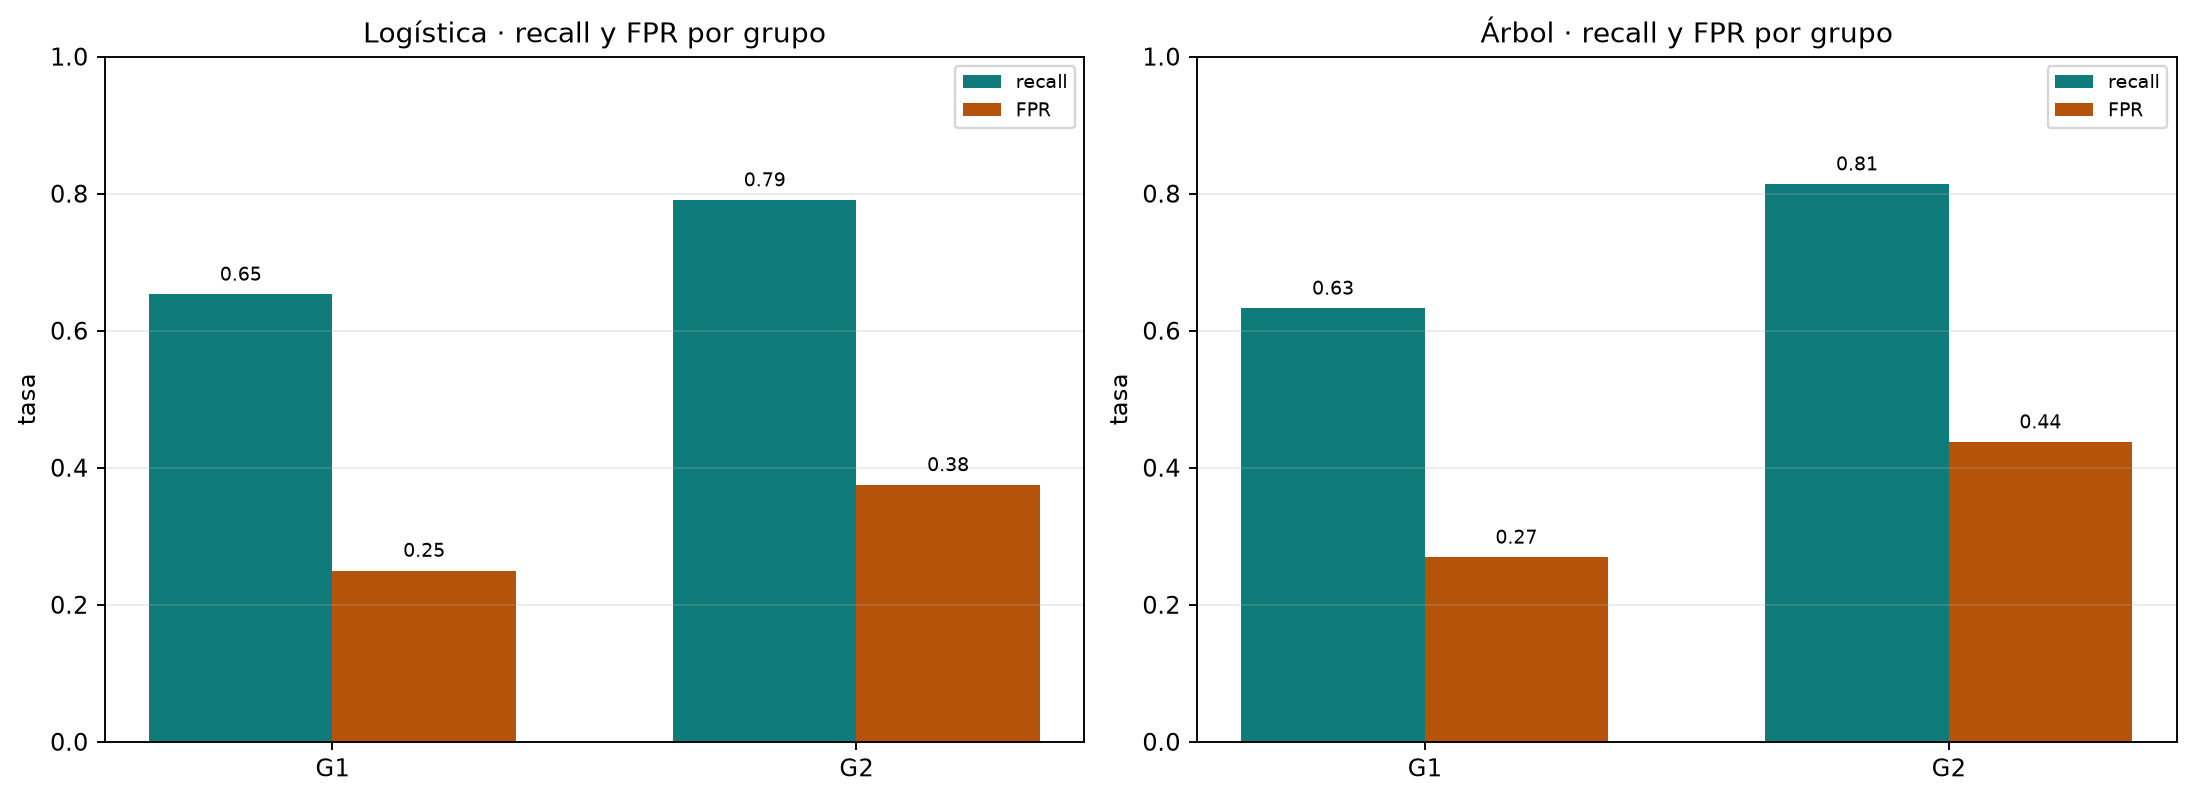
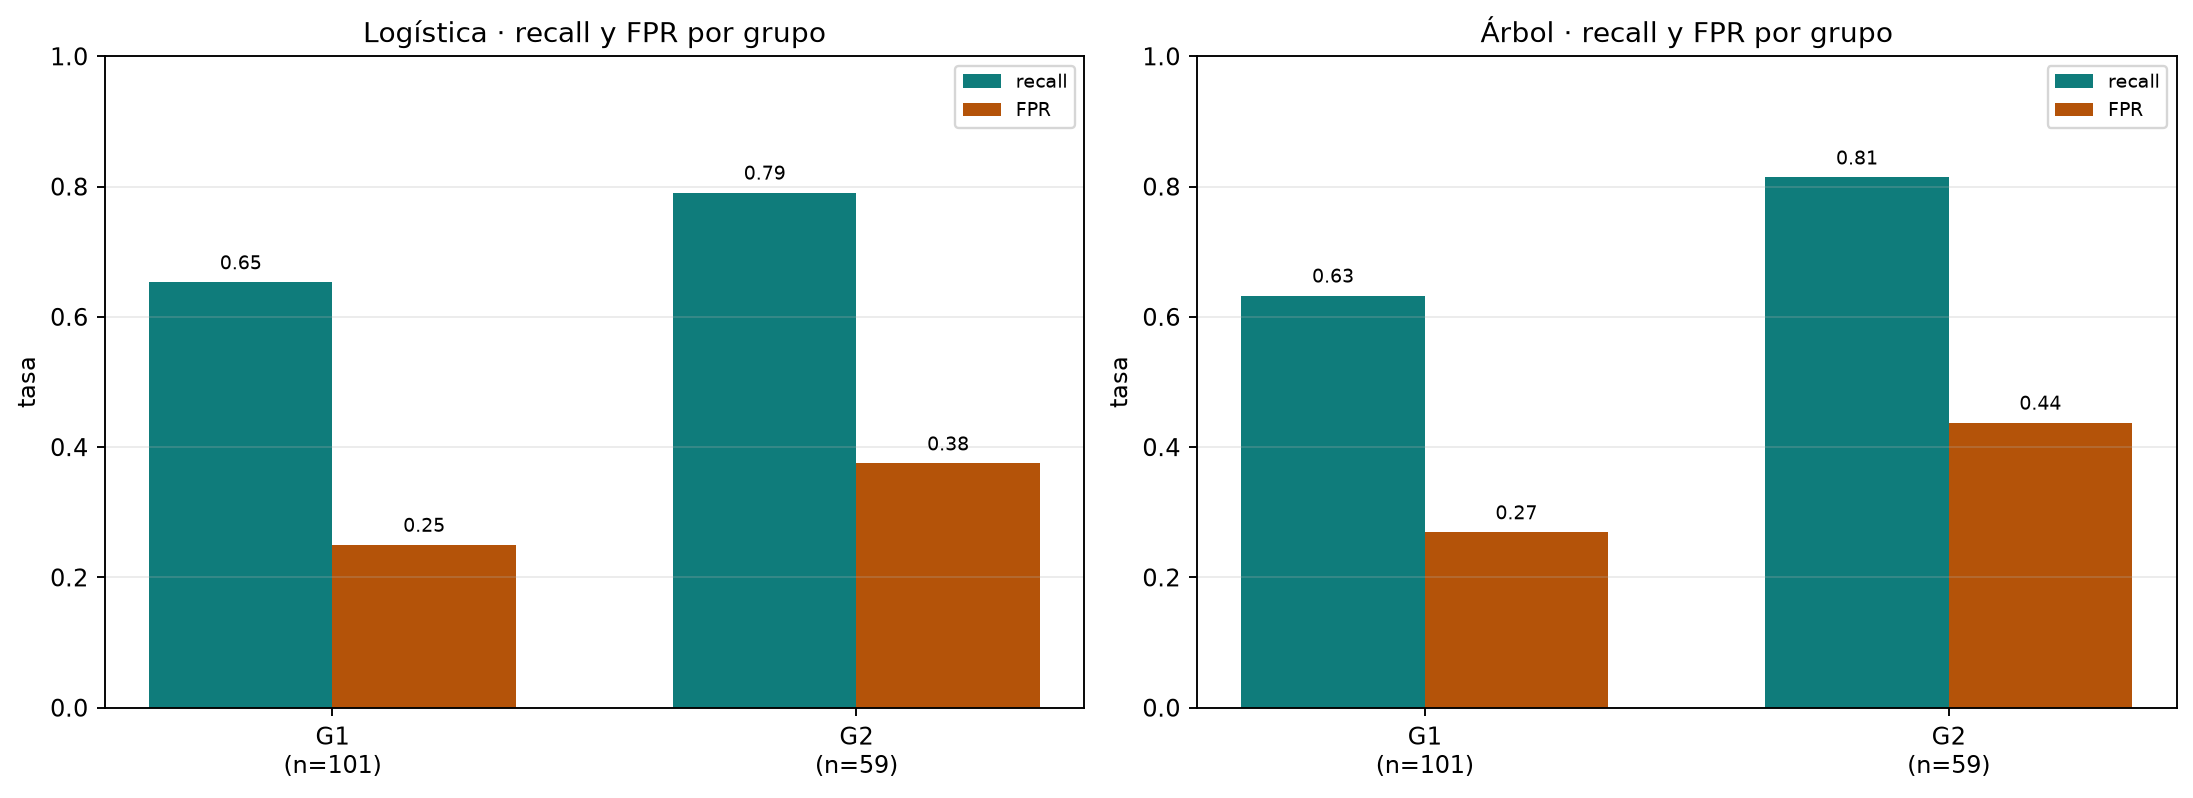
feat(lab13): version the deployment decision artifact and the gates figure
scripts/lab13_governance.py genera reports/lab13/deployment_decision.json (estado
REVIEW con las tres puertas del LAB12 fallidas) y make_figures.py construye la
figura de puertas a partir de ese artefacto. Los CSV interseccionales llevan la
columna soporte_insuficiente calculada por el script y se anade la figura de
tasas base de positivos.

diff --git a/scripts/make_figures.py b/scripts/make_figures.py
@@ -12,7 +12,8 @@ from pathlib import Path
 import matplotlib.pyplot as plt
 import numpy as np
 import pandas as pd
-import yaml
+
+from inf8239_u04.data import load_data, temporal_split
 
 ROOT = Path(__file__).resolve().parents[1]
 REPORTS = ROOT / "reports"
@@ -44,7 +45,7 @@ def figura_metricas_grupo() -> None:
         for i, (r, f) in enumerate(zip(tabla["recall"], tabla["fpr"])):
             eje.text(i - ancho / 2, r + 0.02, f"{r:.2f}", ha="center", fontsize=8)
             eje.text(i + ancho / 2, f + 0.02, f"{f:.2f}", ha="center", fontsize=8)
-        eje.set_xticks(x, tabla.index)
+        eje.set_xticks(x, [f"{nombre_grupo}\n(n={int(n)})" for nombre_grupo, n in zip(tabla.index, tabla["count"])])
         eje.set_ylim(0, 1)
         eje.set_ylabel("tasa")
         eje.set_title(f"{nombre} · recall y FPR por grupo")
@@ -57,9 +58,9 @@ def figura_metricas_grupo() -> None:
 
 def figura_recall_interseccional() -> None:
     inter = pd.read_csv(REPORTS / "lab12/logistic/fairness_intersectional.csv", index_col=0)
-    soporte = np.where(inter["count"] < 15, "INSUFICIENTE", "ok")
+    insuficiente = inter["soporte_insuficiente"].astype(str).str.lower().eq("true")
     figura, eje = plt.subplots(figsize=(10, 5))
-    colores = ["#b91c1c" if s == "INSUFICIENTE" else "#0f7c7b" for s in soporte]
+    colores = ["#b91c1c" if s else "#0f7c7b" for s in insuficiente]
     eje.bar(inter.index, inter["recall"], color=colores)
     for i, (c, r) in enumerate(zip(inter["count"], inter["recall"])):
         eje.text(i, r + 0.02, f"n={int(c)}", ha="center", fontsize=8)
@@ -90,21 +91,28 @@ def figura_utilidad_brecha() -> None:
     plt.close(figura)
 
 
-def figura_inventario() -> None:
-    cfg = yaml.safe_load((ROOT / "configs/governance.yml").read_text(encoding="utf-8"))
-    inventario = pd.DataFrame(cfg["inventory"])
-    figura, eje = plt.subplots(figsize=(9, 4.4))
-    colores = ["#0f7c7b" if u else "#94a3b8" for u in inventario["used_as_feature"]]
-    eje.barh(inventario["name"], inventario["retention_days"], color=colores)
-    for y, (d, u) in enumerate(zip(inventario["retention_days"], inventario["used_as_feature"])):
-        eje.text(d + 8, y, f"{d} d" + (" · variable" if u else " · fuera del modelo"), va="center", fontsize=8)
-    eje.set_xlabel("Retención (días)")
-    eje.set_title("Inventario: retención y uso como variable · azul = entra al modelo")
-    eje.set_xlim(0, 1250)
-    eje.invert_yaxis()
-    eje.grid(axis="x", alpha=0.3)
+def figura_tasas_base() -> None:
+    datos = load_data()
+    _, prueba = temporal_split(datos)
+    grupos = ["G1", "G2"]
+    completos = [100.0 * datos.loc[datos.protected_group == g, "target"].mean() for g in grupos]
+    prueba_pct = [100.0 * prueba.loc[prueba.protected_group == g, "target"].mean() for g in grupos]
+    x = np.arange(len(grupos))
+    ancho = 0.35
+    figura, eje = plt.subplots(figsize=(8.5, 4.4))
+    eje.bar(x - ancho / 2, completos, ancho, label=f"datos completos (n={len(datos)})", color="#94a3b8")
+    eje.bar(x + ancho / 2, prueba_pct, ancho, label=f"prueba (corte temporal, n={len(prueba)})", color="#0f7c7b")
+    for i, (completo, parcial) in enumerate(zip(completos, prueba_pct)):
+        eje.text(i - ancho / 2, completo + 1, f"{completo:.1f} %", ha="center", fontsize=9)
+        eje.text(i + ancho / 2, parcial + 1, f"{parcial:.1f} %", ha="center", fontsize=9)
+    eje.set_xticks(x, grupos)
+    eje.set_ylabel("tasa base de positivos (%)")
+    eje.set_title("Tasa base de positivos por grupo (prevalencia del target)")
+    eje.set_ylim(0, 100)
+    eje.legend(fontsize=9)
+    eje.grid(axis="y", alpha=0.25)
     figura.tight_layout()
-    figura.savefig(REPORTS / "lab13/inventario_retencion.png", dpi=170, bbox_inches="tight")
+    figura.savefig(REPORTS / "lab12/tasas_base_positivos.png", dpi=170, bbox_inches="tight")
     plt.close(figura)
 
 
@@ -135,7 +143,7 @@ def figura_puertas() -> None:
                  color="#15803d" if v else "#b91c1c")
     eje.set_xlim(0, 1.35)
     eje.set_xticks([])
-    eje.set_title("Puertas de calidad del despliegue · verde = correcta, rojo = falla")
+    eje.set_title(f"Puertas de calidad del despliegue · estado {decision['decision']['status']}")
     eje.invert_yaxis()
     figura.tight_layout()
     figura.savefig(REPORTS / "lab13/puertas_calidad.png", dpi=170, bbox_inches="tight")
@@ -148,7 +156,7 @@ def main() -> None:
         ("lab12/metricas_por_grupo.png", figura_metricas_grupo),
         ("lab12/recall_interseccional.png", figura_recall_interseccional),
         ("lab12/utilidad_vs_brecha.png", figura_utilidad_brecha),
-        ("lab13/inventario_retencion.png", figura_inventario),
+        ("lab12/tasas_base_positivos.png", figura_tasas_base),
         ("lab13/raci_responsables.png", figura_raci),
         ("lab13/puertas_calidad.png", figura_puertas),
     ]
@@ -156,7 +164,7 @@ def main() -> None:
         try:
             funcion()
             print("OK   ", nombre)
-        except Exception as error:  # la figura depende de artefactos que pueden no existir
+        except (OSError, KeyError, ValueError, TypeError, AttributeError) as error:
             print("FALTA", nombre, "->", type(error).__name__, error)
 
 

diff --git a/scripts/lab12_audit.py b/scripts/lab12_audit.py
@@ -1,12 +1,17 @@
-import argparse, json
+import argparse
+import json
 from pathlib import Path
-from inf8239_u04.data import load_data,features,temporal_split
-from inf8239_u04.fairness import audit,intersectional
-from inf8239_u04.model import build_model,fit_measure
+
+from inf8239_u04.data import features, load_data, temporal_split
+from inf8239_u04.fairness import audit, intersectional, soporte_insuficiente
+from inf8239_u04.governance import load_config
+from inf8239_u04.model import build_model, fit_measure_repeated
+
 p=argparse.ArgumentParser(); p.add_argument("--model",choices=["logistic","tree"],default="logistic"); args=p.parse_args()
 out=Path("reports/lab12")/args.model; out.mkdir(parents=True,exist_ok=True)
-df=load_data(); train,test=temporal_split(df); model=build_model(args.model); resources=fit_measure(model,features(train),train.target,f"models/{args.model}.joblib"); pred=model.predict(features(test))
+minimo=load_config()["gates"].get("min_intersectional_support",15)
+df=load_data(); train,test=temporal_split(df); model=build_model(args.model); resources=fit_measure_repeated(model,features(train),train.target,f"models/{args.model}.joblib"); pred=model.predict(features(test))
 overall,groups,diff=audit(test.target,pred,test.protected_group); _,inter,_=audit(test.target,pred,intersectional(test))
-groups.to_csv(out/"fairness_by_group.csv"); inter.to_csv(out/"fairness_intersectional.csv")
-(out/"global_metrics.json").write_text(json.dumps({"metrics":{k:float(v) for k,v in overall.items()},"differences":{k:float(v) for k,v in diff.items()},"resources":resources},indent=2),encoding="utf-8")
+groups.to_csv(out/"fairness_by_group.csv"); soporte_insuficiente(inter,minimo).to_csv(out/"fairness_intersectional.csv")
+(out/"global_metrics.json").write_text(json.dumps({"metrics":{k:float(v) for k,v in overall.items()},"differences":{k:float(v) for k,v in diff.items()},"resources":{"training_seconds_cota":resources["training_seconds_cota"],"model_kb":round(resources["model_kb"],2)}},indent=2),encoding="utf-8")
 print(groups.round(3)); print(resources)

diff --git a/scripts/lab13_governance.py b/scripts/lab13_governance.py
@@ -1,10 +1,14 @@
 import json
 from pathlib import Path
+
 import pandas as pd
+
 from inf8239_u04.data import load_data
-from inf8239_u04.governance import load_config,validate_raci
+from inf8239_u04.governance import load_config, validate_raci
 from inf8239_u04.pipeline import run
+
 cfg=load_config(); validate_raci(pd.read_csv("student_inputs/raci.csv")); result=run(load_data(),cfg["gates"])
 out=Path("reports/lab13"); out.mkdir(parents=True,exist_ok=True)
-(out/"deployment_decision.json").write_text(json.dumps({"metrics":result["metrics"],"gaps":result["gaps"],"resources":result["resources"],"decision":result["decision"]},indent=2),encoding="utf-8")
+payload={"gates":cfg["gates"],"metrics":result["metrics"],"gaps":result["gaps"],"resources":{"model_kb":round(result["resources"]["model_kb"],2),"min_intersectional_support":result["resources"]["min_intersectional_support"]},"decision":result["decision"],"nota":"Los tiempos de ejecucion (latencia y segundos de entrenamiento) no se versionan: son medidas no deterministas. La puerta de latencia se verifica en cada ejecucion y su resultado queda en decision.checks.latency."}
+(out/"deployment_decision.json").write_text(json.dumps(payload,indent=2),encoding="utf-8")
 result["by_group"].to_csv(out/"fairness_by_group.csv"); print(result["decision"])
